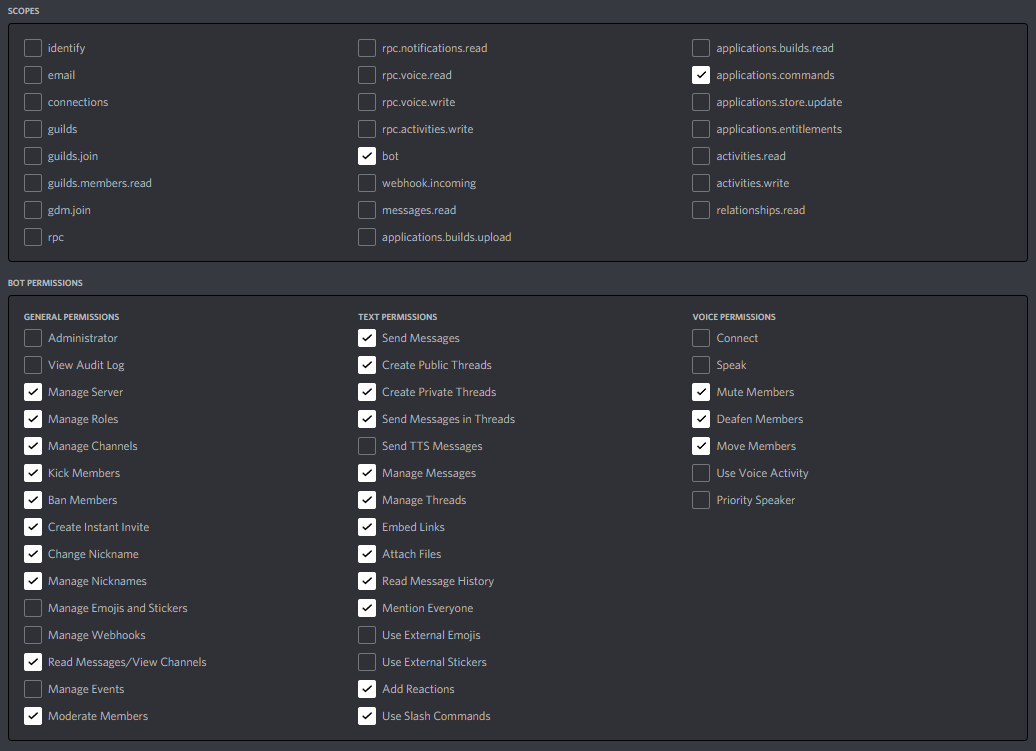
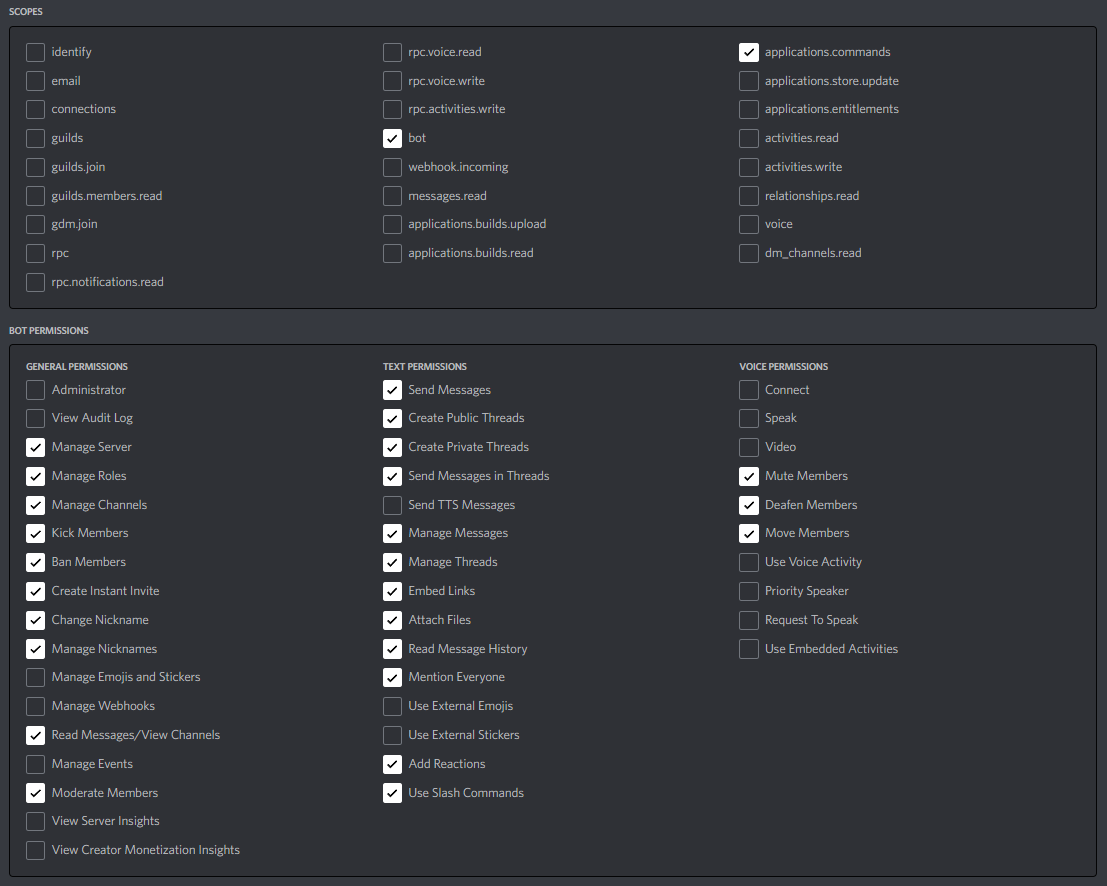
docs: fixed README.md text and updated oauth2 url image

diff --git a/README.md b/README.md
@@ -126,7 +126,7 @@ nodemon
 ###### Bot & Application
 1. Visit [Discord Developer Portal](https://discord.com/developers/applications) to create a new application
 
-2. Add a **bot user** to your application
+2. Add a **Bot user** to your application
 
 3. Enable `PUBLIC BOT` authorization flow option for the application **(OPTIONAL)**
 
